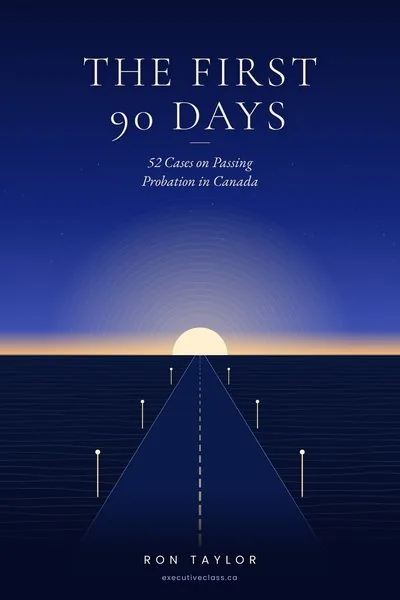
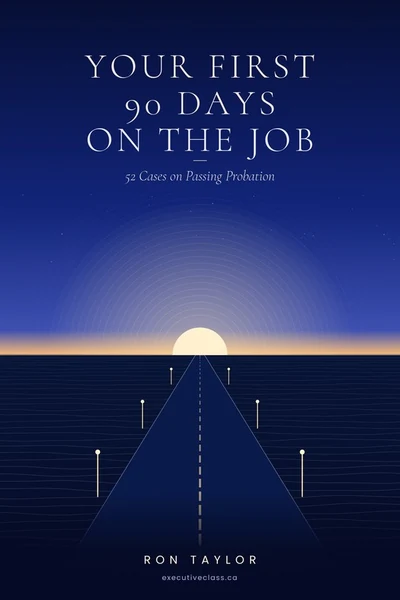
Rename The First 90 Days to Your First 90 Days on the Job; new cover
Claude-Session: https://claude.ai/code/session_01NLmnWDeJyaJQkmtaeCxUHz

Changed region(s): [[0.21, 0.09, 0.81, 0.33]]

diff --git a/index.html b/index.html
@@ -97,7 +97,7 @@
       },
       {
         "@type": "Offer",
-        "name": "The First 90 Days",
+        "name": "Your First 90 Days on the Job",
         "price": "520",
         "priceCurrency": "CAD"
       }
@@ -568,13 +568,13 @@
             <div>
               <h3>The Interview Sprint</h3>
               <p class="who" data-i18n="c3who">Para quem está se preparando para entrevistas de emprego.</p>
-              <p data-i18n="c3body">Duas semanas de preparação individual focada exclusivamente em entrevistas de emprego: três horas de aula por semana. Você aprende a responder às perguntas mais comuns, apresentar a sua experiência com naturalidade, demonstrar o seu valor e entender o que os empregadores canadenses esperam. Se você conseguir um emprego antes do fim do curso, as aulas restantes passam para The First 90 Days ou The Executive Class, para usar em até três meses.</p>
+              <p data-i18n="c3body">Duas semanas de preparação individual focada exclusivamente em entrevistas de emprego: três horas de aula por semana. Você aprende a responder às perguntas mais comuns, apresentar a sua experiência com naturalidade, demonstrar o seu valor e entender o que os empregadores canadenses esperam. Se você conseguir um emprego antes do fim do curso, as aulas restantes passam para Your First 90 Days on the Job ou The Executive Class, para usar em até três meses.</p>
             </div>
           </article>
           <article class="course">
             <div class="num">05</div>
             <div>
-              <h3>The First 90 Days <span class="new-badge" data-i18n="newBadge">Novo</span></h3>
+              <h3>Your First 90 Days on the Job <span class="new-badge" data-i18n="newBadge">Novo</span></h3>
               <p class="who" data-i18n="c6who">Para quem acabou de conseguir um emprego no Canadá.</p>
               <p data-i18n="c6body">Treze semanas, com uma aula individual de uma hora para cada semana do seu período de experiência. Você ensaia, antes de acontecerem de verdade, os momentos que constroem a sua reputação: a apresentação de vinte segundos, a reunião de stand-up, o e-mail com o tom certo, a conversa de feedback e a avaliação dos 90 dias.</p>
             </div>
@@ -688,7 +688,7 @@
           <a class="book" href="https://executiveclass.ca/ebooks/the-brazilian-edge/" target="_blank" rel="noopener"><img class="cover" width="400" height="600" decoding="async" src="images/cover-the-brazilian-edge.webp" alt="The Brazilian Edge — 52 lessons on what you bring to Canada" loading="lazy" /></a>
           <a class="book" href="https://executiveclass.ca/ebooks/52-hours-to-a-winning-interview/" target="_blank" rel="noopener"><img class="cover" width="400" height="600" decoding="async" src="images/cover-52-hours-to-a-winning-interview.webp" alt="52 Hours — To a Winning Interview" loading="lazy" /></a>
           <a class="book" href="https://executiveclass.ca/ebooks/why-you-the-art-of-the-interview/" target="_blank" rel="noopener"><img class="cover" width="400" height="600" decoding="async" src="images/cover-why-you-the-art-of-the-interview.webp" alt="Why You? — The Art of the Interview" loading="lazy" /></a>
-          <a class="book" href="https://executiveclass.ca/ebooks/the-first-90-days/" target="_blank" rel="noopener"><img class="cover" width="400" height="600" decoding="async" src="images/cover-the-first-90-days.webp" alt="The First 90 Days, by Ron Taylor" loading="lazy" /></a>
+          <a class="book" href="https://executiveclass.ca/ebooks/the-first-90-days/" target="_blank" rel="noopener"><img class="cover" width="400" height="600" decoding="async" src="images/cover-the-first-90-days.webp?v=2" alt="Your First 90 Days on the Job, by Ron Taylor" loading="lazy" /></a>
           <a class="book" href="https://executiveclass.ca/ebooks/comece-com-tudo/" target="_blank" rel="noopener"><img class="cover" width="400" height="600" decoding="async" src="images/cover-comece-com-tudo.webp" alt="Comece com Tudo — Guia de preparação para a universidade no Canadá, by Ron Taylor" loading="lazy" /></a>
           <a class="book" href="https://executiveclass.ca/ebooks/the-canadian-networking-code/" target="_blank" rel="noopener"><img class="cover" width="400" height="600" decoding="async" src="images/cover-the-canadian-networking-code.webp" alt="The Canadian Networking Code — Como Profissionais Brasileiros Transformam Experiência em Oportunidade no Canadá" loading="lazy" /></a>
           <a class="book" href="https://executiveclass.ca/ebooks/the-art-of-speaking-confidently/" target="_blank" rel="noopener"><img class="cover" width="400" height="600" decoding="async" src="images/cover-the-art-of-speaking-confidently.webp" alt="The Art of Speaking Confidently, by Ron Taylor" loading="lazy" /></a>
@@ -734,7 +734,7 @@
           </div>
           <div class="price-row">
             <div>
-              <h3 data-i18n="pr6n">The First 90 Days</h3>
+              <h3 data-i18n="pr6n">Your First 90 Days on the Job</h3>
               <p data-i18n="pr6f">13 semanas · 1 hora de aula individual por semana</p>
             </div>
             <div class="price-amt"><span data-i18n="pr6p">$520</span> <small data-i18n="pr6pu">CAD / 13 semanas</small></div>
@@ -830,7 +830,7 @@
               <option value="The Onboarding Sprint" data-i18n="courseOpt2">The Onboarding Sprint</option>
               <option value="The University &amp; College Prep Sprint" data-i18n="courseOpt6">The University &amp; College Prep Sprint</option>
               <option value="The Interview Sprint" data-i18n="courseOpt3">The Interview Sprint</option>
-              <option value="The First 90 Days" data-i18n="courseOpt7">The First 90 Days</option>
+              <option value="Your First 90 Days on the Job" data-i18n="courseOpt7">Your First 90 Days on the Job</option>
               <option value="The Executive Class" data-i18n="courseOpt4">The Executive Class</option>
               <option value="Not sure yet" data-i18n="courseOpt5">Ainda não sei — quero ajuda para decidir</option>
             </select>
@@ -851,7 +851,7 @@
               <option value="The Brazilian Edge">The Brazilian Edge</option>
               <option value="The Brazucan Pathway">The Brazucan Pathway</option>
               <option value="The Canadian Networking Code">The Canadian Networking Code</option>
-              <option value="The First 90 Days">The First 90 Days</option>
+              <option value="Your First 90 Days on the Job">Your First 90 Days on the Job</option>
               <option value="52 Hours to a Winning Interview">52 Hours to a Winning Interview</option>
               <option value="Why You? The Art of the Interview">Why You? The Art of the Interview</option>
               <option value="Comece com Tudo">Comece com Tudo</option>
@@ -903,10 +903,10 @@
         c6who: "Para quem acabou de conseguir um emprego no Canadá.",
         c6body: "Treze semanas, com uma aula individual de uma hora para cada semana do seu período de experiência. Você ensaia, antes de acontecerem de verdade, os momentos que constroem a sua reputação: a apresentação de vinte segundos, a reunião de stand-up, o e-mail com o tom certo, a conversa de feedback e a avaliação dos 90 dias.",
         newBadge: "Novo",
-        pr6n: "The First 90 Days",
+        pr6n: "Your First 90 Days on the Job",
         pr6f: "13 semanas · 1 hora de aula individual por semana",
         pr6p: "$520", pr6pu: "CAD / 13 semanas",
-        courseOpt7: "The First 90 Days",
+        courseOpt7: "Your First 90 Days on the Job",
         introTitle2: "Escolha a sua pista de decolagem.",
         introP1: "Você está prestes a embarcar numa jornada que vai testar a sua garra, fazer você duvidar de si e, no fim, revelar o melhor de você.",
         courseKicker: "Os cursos",
@@ -916,7 +916,7 @@
         c2who: "Para quem vai morar no Canadá — ou acabou de chegar.",
         c2body: "Quatro semanas, com cinco aulas individuais de 2 horas por semana. Dia a dia, trabalho, entrevistas e a confiança para prosperar no seu novo lar.",
         c3who: "Para quem está se preparando para entrevistas de emprego.",
-        c3body: "Duas semanas de preparação individual focada exclusivamente em entrevistas de emprego: três horas de aula por semana. Você aprende a responder às perguntas mais comuns, apresentar a sua experiência com naturalidade, demonstrar o seu valor e entender o que os empregadores canadenses esperam. Se você conseguir um emprego antes do fim do curso, as aulas restantes passam para The First 90 Days ou The Executive Class, para usar em até três meses.",
+        c3body: "Duas semanas de preparação individual focada exclusivamente em entrevistas de emprego: três horas de aula por semana. Você aprende a responder às perguntas mais comuns, apresentar a sua experiência com naturalidade, demonstrar o seu valor e entender o que os empregadores canadenses esperam. Se você conseguir um emprego antes do fim do curso, as aulas restantes passam para Your First 90 Days on the Job ou The Executive Class, para usar em até três meses.",
         c4who: "Para quem já mora e trabalha no Canadá e precisa migrar da fluência para a influência.",
         c4body: "Um programa contínuo, individual e sob medida para profissionais que precisam fortalecer a sua influência, presença executiva e confiança na vida profissional e social canadense.",
         chipOnboarding: "Inglês para o dia a dia",
@@ -1054,10 +1054,10 @@
         c6who: "For Brazilians who have just landed a job in Canada.",
         c6body: "Thirteen weeks, with a one-hour one-on-one lesson for each week of your probation. You rehearse the moments that build your reputation before they happen for real: the twenty-second introduction, the stand-up, the email with the right tone, the feedback conversation and the 90-day review.",
         newBadge: "New",
-        pr6n: "The First 90 Days",
+        pr6n: "Your First 90 Days on the Job",
         pr6f: "13 weeks · one 1-hour one-on-one lesson a week",
         pr6p: "$520", pr6pu: "CAD / 13 weeks",
-        courseOpt7: "The First 90 Days",
+        courseOpt7: "Your First 90 Days on the Job",
         introTitle2: "Choose your runway.",
         introP1: "You are about to embark on a journey that will test your mettle, make you second-guess yourself, and ultimately bring out the best in you.",
         courseKicker: "The Courses",
@@ -1067,7 +1067,7 @@
         c2who: "For Brazilians planning to move — or who have just arrived.",
         c2body: "Four weeks of five one-on-one 2-hour lessons a week. Everyday life, work, interviews, and the confidence to thrive in your new home.",
         c3who: "For Brazilians preparing for job interviews.",
-        c3body: "Two weeks of one-on-one preparation focused entirely on job interviews: three hours of lessons a week. Learn to answer the most common questions, present your experience naturally, demonstrate your value, and understand what Canadian employers expect. If you land a job before the course ends, your remaining lessons carry over to The First 90 Days or The Executive Class, to be used within three months.",
+        c3body: "Two weeks of one-on-one preparation focused entirely on job interviews: three hours of lessons a week. Learn to answer the most common questions, present your experience naturally, demonstrate your value, and understand what Canadian employers expect. If you land a job before the course ends, your remaining lessons carry over to Your First 90 Days on the Job or The Executive Class, to be used within three months.",
         c4who: "For Brazilians living and working in Canada who need to migrate from fluency to influence.",
         c4body: "An ongoing, one-on-one, tailored program for professionals who need to strengthen their influence, executive presence, and confidence in Canadian professional and social life.",
         chipOnboarding: "Everyday English",
